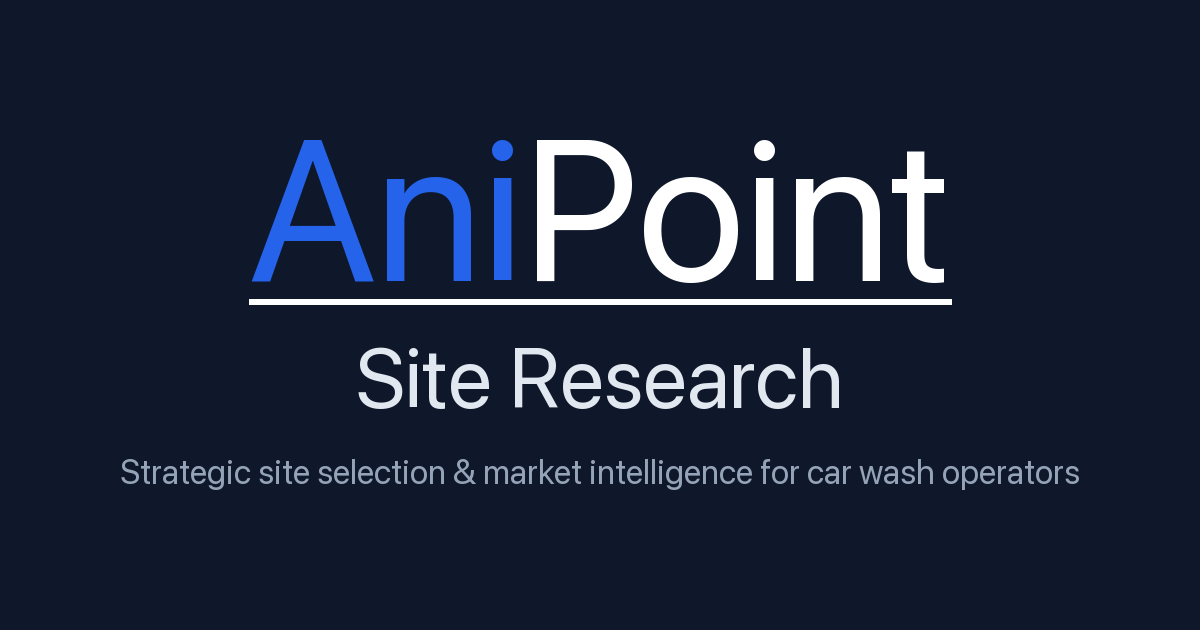
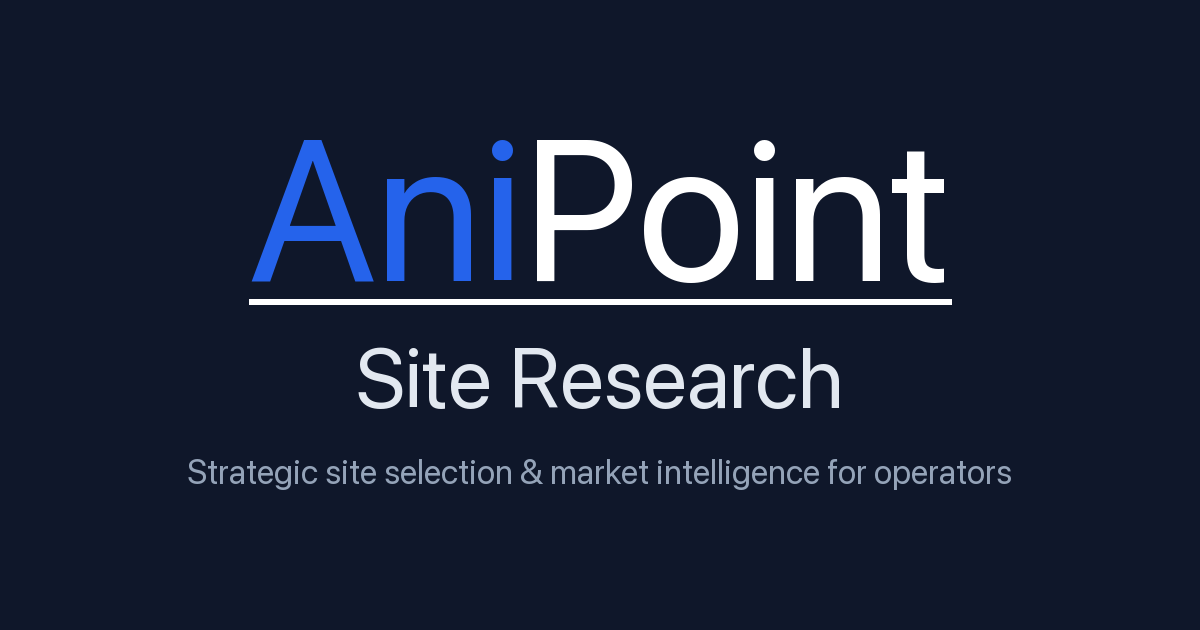
Say operators in the social share image and its description

Changed region(s): [[0.0925, 0.7238, 0.8942, 0.7841]]

diff --git a/index.html b/index.html
@@ -13,7 +13,7 @@
     <meta property="og:image" content="https://anipointresearch.com/og-image.png">
     <meta property="og:image:width" content="1200">
     <meta property="og:image:height" content="630">
-    <meta property="og:image:alt" content="AniPoint Site Research - strategic site selection &amp; market intelligence for car wash operators">
+    <meta property="og:image:alt" content="AniPoint Site Research - strategic site selection &amp; market intelligence for operators">
     <meta name="twitter:card" content="summary_large_image">
     <meta name="twitter:title" content="AniPoint Site Research">
     <meta name="twitter:description" content="Projected daily car counts, traffic, competition and revenue for car wash sites, delivered in days, before you sign a lease.">
